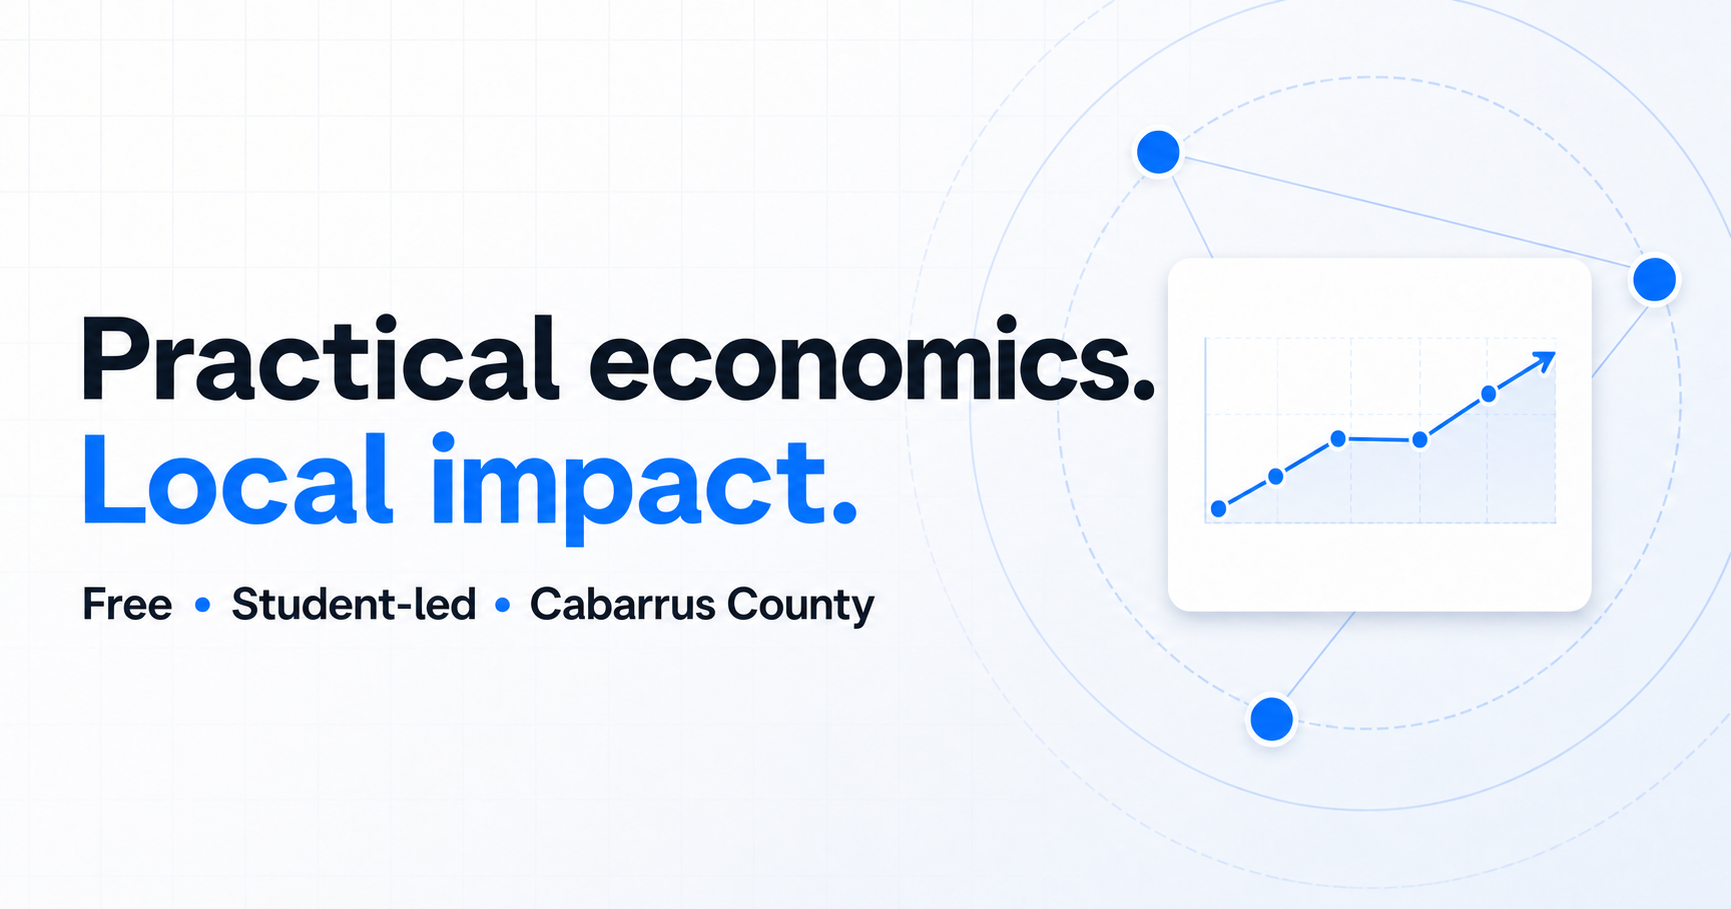
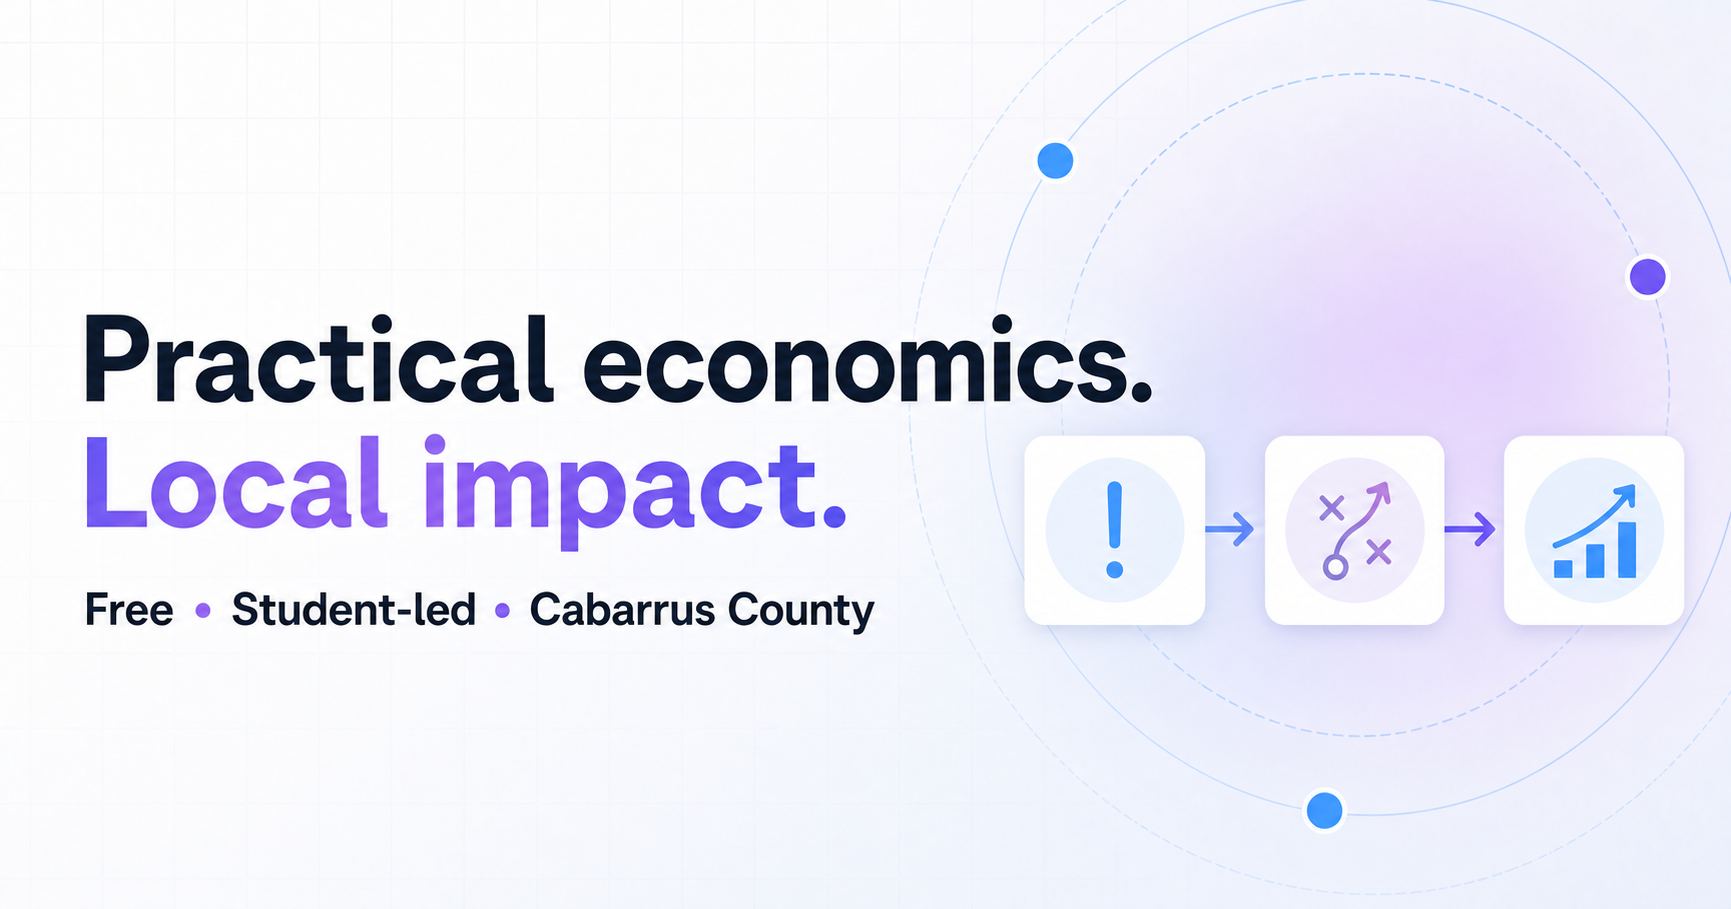
Refine Project Econ interactions

diff --git a/app/globals.css b/app/globals.css
@@ -4,3 +4,85 @@
 @media(max-width:980px){.concept-grid{grid-template-columns:repeat(2,1fr)}.hero-layout{grid-template-columns:1fr}.hero{min-height:auto}.hero-visual{height:430px;max-width:600px;width:100%;margin:auto}.split{gap:50px}.contact-layout{grid-template-columns:1fr}.contact-copy{position:static}.model-grid{grid-template-columns:repeat(2,1fr)}}
 @media(max-width:760px){.container{width:min(100% - 28px,1180px)}.section{padding:78px 0}.nav{height:70px}.nav-links{display:none}.menu-button{display:block}.brand-full{display:none}.brand-mark{display:block}.mobile-menu{top:70px}.hero-layout{padding-block:65px;gap:40px}.hero h1{font-size:clamp(3.2rem,15vw,5.3rem)}.hero-actions{align-items:flex-start;flex-direction:column}.hero-visual{height:350px}.card-main{width:270px;padding:24px}.card-main strong{font-size:25px;margin-bottom:40px}.card-float{right:-8px;top:25px}.split{grid-template-columns:1fr;gap:20px}.free-card{grid-template-columns:1fr;padding:32px}.concept-grid{grid-template-columns:1fr}.concept-card{min-height:auto}.timeline .step{grid-template-columns:60px 1fr}.empty-card{padding:50px 22px}.cta-section{padding-bottom:78px}.cta-card{padding:36px 28px;display:block}.cta-card .button{margin-top:20px}.footer-grid{grid-template-columns:1fr;gap:38px}.footer-bottom{display:block}.page-intro{padding:90px 0 70px}.model-grid{grid-template-columns:1fr}.founder-card{grid-template-columns:1fr;padding:24px}.field-grid{grid-template-columns:1fr}.contact-form{padding:22px}.contact-section{padding-top:60px}}
 @media(prefers-reduced-motion:reduce){*{scroll-behavior:auto!important;animation-duration:.01ms!important;transition-duration:.01ms!important}}
+
+/* Lively visual system */
+:root{--blue:#2563eb;--blue2:#1d4ed8;--sky:#38bdf8;--purple:#8b5cf6;--ink:#1f2937;--wash:#f8faff;--glow:rgba(37,99,235,.22)}
+body{background:linear-gradient(180deg,#fff 0%,#f9fbff 45%,#fff 100%)}
+.site-experience{min-height:100vh}
+.brand-intro{position:fixed;inset:0;z-index:1000;display:grid;place-items:center;overflow:hidden;background:radial-gradient(circle at 50% 48%,#fff 0 28%,#f1f7ff 68%,#eef1ff 100%)}
+.intro-glow{position:absolute;width:min(580px,88vw);aspect-ratio:1;border-radius:50%;background:radial-gradient(circle,rgba(56,189,248,.24),rgba(139,92,246,.11) 48%,transparent 70%);filter:blur(18px)}
+.intro-full-logo,.intro-p-logo{position:absolute;display:grid;place-items:center;will-change:transform,opacity}
+.intro-full-logo{width:min(620px,86vw);height:min(310px,46vw)}
+.intro-p-logo{width:min(260px,48vw);aspect-ratio:1}
+.intro-full-logo img,.intro-p-logo img{width:100%;height:100%;object-fit:contain}
+.gradient-shapes{position:absolute;inset:0;overflow:hidden;pointer-events:none;z-index:0}
+.gradient-shapes span{position:absolute;border-radius:999px;filter:blur(2px);opacity:.5}
+.gradient-shapes span:nth-child(1){width:280px;height:280px;right:6%;top:8%;background:radial-gradient(circle,rgba(56,189,248,.28),transparent 68%)}
+.gradient-shapes span:nth-child(2){width:360px;height:220px;left:-130px;bottom:2%;transform:rotate(-18deg);background:radial-gradient(ellipse,rgba(37,99,235,.18),transparent 70%)}
+.gradient-shapes span:nth-child(3){width:220px;height:220px;right:34%;bottom:-90px;background:radial-gradient(circle,rgba(139,92,246,.2),transparent 68%)}
+.gradient-shapes-purple span:nth-child(1){background:radial-gradient(circle,rgba(139,92,246,.2),transparent 68%)}
+.gradient-shapes-purple span:nth-child(3){background:radial-gradient(circle,rgba(56,189,248,.2),transparent 68%)}
+.button{background:linear-gradient(135deg,var(--blue),#4f7df4);box-shadow:0 12px 30px rgba(37,99,235,.22)}
+.button:hover{background:linear-gradient(135deg,#1d4ed8,var(--purple));box-shadow:0 17px 38px rgba(83,72,220,.3)}
+.button:focus-visible,.journey-nodes button:focus-visible,.expand-card button:focus-visible{outline:3px solid rgba(56,189,248,.5);outline-offset:4px}
+.button-glow{position:relative}
+.button-glow:after{content:"";position:absolute;inset:-6px;border-radius:inherit;background:linear-gradient(90deg,rgba(56,189,248,.45),rgba(139,92,246,.35));filter:blur(12px);z-index:-1;opacity:0;transition:opacity .25s}
+.button-glow:hover:after{opacity:1}
+.nav-wrap{background:rgba(255,255,255,.78);border-bottom-color:rgba(100,142,232,.17);box-shadow:0 8px 30px rgba(49,84,150,.06)}
+.hero{background:linear-gradient(135deg,#fff 8%,#edf6ff 54%,#f5efff 100%);isolation:isolate}
+.hero-gradient{position:absolute;inset:0;background:radial-gradient(circle at 18% 30%,rgba(56,189,248,.15),transparent 28%),radial-gradient(circle at 84% 26%,rgba(139,92,246,.15),transparent 32%);animation:hero-breathe 9s ease-in-out infinite alternate}
+.hero-grid-bg{opacity:.9;mask-image:linear-gradient(90deg,transparent 4%,black 44%,black 90%,transparent)}
+.hero-layout{z-index:3}
+.hero h1{filter:drop-shadow(0 10px 35px rgba(37,99,235,.08))}
+.hero h1 em{background:linear-gradient(90deg,var(--blue),#5a70ee 60%,var(--purple));background-clip:text;color:transparent}
+.hero-fade{position:absolute;z-index:2;left:0;right:0;bottom:0;height:110px;background:linear-gradient(transparent,#fff)}
+.hero-visual{border-color:rgba(122,142,235,.24);background:radial-gradient(circle at 42% 45%,rgba(255,255,255,.92),rgba(110,175,255,.15) 48%,rgba(139,92,246,.09) 68%,transparent 69%);box-shadow:inset 0 0 70px rgba(255,255,255,.65),0 30px 90px rgba(75,99,190,.15)}
+.hero-orbit{border-color:rgba(99,130,232,.16);box-shadow:0 0 80px rgba(56,189,248,.08)}
+.flow-visual{position:absolute;left:50%;top:41%;transform:translate(-50%,-50%);width:86%;display:grid;grid-template-columns:1fr 28px 1fr 28px 1fr;align-items:center;gap:5px;z-index:2}
+.flow-visual>div{display:grid;place-items:center;gap:9px;color:#3e4a60;font:700 11px var(--font-mono);text-transform:uppercase;letter-spacing:.08em;transition:.25s}
+.flow-visual>div:hover{transform:translateY(-5px);color:var(--blue)}
+.flow-visual>div span{width:58px;height:58px;display:grid;place-items:center;border-radius:18px;color:#fff;background:linear-gradient(145deg,var(--blue),var(--purple));box-shadow:0 12px 28px rgba(56,99,225,.25)}
+.flow-visual svg{width:24px}.flow-visual i{height:2px;background:linear-gradient(90deg,var(--sky),var(--purple));position:relative}.flow-visual i:after{content:"";position:absolute;right:-1px;top:-3px;width:8px;height:8px;border-right:2px solid var(--purple);border-top:2px solid var(--purple);transform:rotate(45deg)}
+.card-main{top:75%;width:300px;padding:21px 25px}.card-main strong{font-size:22px;margin:10px 0 14px}.card-float{top:52px;background:rgba(255,255,255,.92);border-color:rgba(115,145,225,.18)}
+.mission-section,.partners-section,.process-section{position:relative;overflow:hidden;isolation:isolate}
+.mission-section{background:linear-gradient(180deg,#fff 0%,#f5f9ff 45%,#f8f5ff 100%)}
+.mission-section>.container,.partners-section>.container,.process-container{position:relative;z-index:2}
+.expand-grid{display:grid;grid-template-columns:repeat(3,1fr);gap:16px;margin-top:54px}
+.expand-card{align-self:start;border:1px solid transparent;border-radius:20px;background:linear-gradient(#fff,#fff) padding-box,linear-gradient(135deg,rgba(56,189,248,.5),rgba(139,92,246,.32)) border-box;box-shadow:0 16px 45px rgba(39,76,145,.09);overflow:hidden;transition:box-shadow .25s}
+.expand-card:hover,.expand-card.is-open{box-shadow:0 22px 55px rgba(67,82,180,.16)}
+.expand-card button{width:100%;border:0;background:transparent;padding:22px;text-align:left;display:grid;grid-template-columns:48px 1fr 22px;gap:14px;align-items:center;color:var(--ink);cursor:pointer}
+.expand-icon{width:48px;height:48px;border-radius:14px;display:grid;place-items:center;color:#fff;background:linear-gradient(145deg,var(--blue),var(--purple))}.expand-icon svg{width:21px}
+.expand-copy{display:grid;gap:5px}.expand-copy strong{font-size:17px}.expand-copy small{color:var(--muted);line-height:1.35}.expand-chevron{width:19px;color:var(--blue);transition:transform .25s}.expand-card.is-open .expand-chevron{transform:rotate(180deg)}
+.expand-detail{overflow:hidden}.expand-detail p{margin:0;padding:0 22px 22px 84px;color:var(--muted);font-size:14px;line-height:1.6}
+.process-section{background:linear-gradient(180deg,#f8f5ff 0%,#eef7ff 52%,#fff 100%)}
+.journey-shell{position:relative;padding:38px 32px 32px;border:1px solid rgba(107,133,212,.22);border-radius:30px;background:rgba(255,255,255,.72);backdrop-filter:blur(14px);box-shadow:0 28px 80px rgba(57,83,156,.12)}
+.journey-track{position:absolute;left:9%;right:9%;top:118px;height:4px;border-radius:99px;background:#dce7fb;overflow:hidden}.journey-track>span{display:block;height:100%;border-radius:inherit;background:linear-gradient(90deg,var(--blue),var(--sky),var(--purple));box-shadow:0 0 18px var(--glow)}
+.journey-nodes{position:relative;display:grid;grid-template-columns:repeat(6,1fr);gap:10px}
+.journey-nodes button{border:0;background:transparent;color:var(--ink);padding:0 4px;display:grid;justify-items:center;gap:9px;cursor:pointer;transform:translateY(22px);transition:transform .28s,color .28s}
+.journey-nodes button:nth-child(even){transform:translateY(-22px)}
+.journey-nodes button:hover{color:var(--blue);transform:translateY(15px)}.journey-nodes button:nth-child(even):hover{transform:translateY(-29px)}
+.journey-number{font:700 10px var(--font-mono);letter-spacing:.1em;color:#77849a}
+.journey-node{width:62px;height:62px;border:5px solid #fff;border-radius:50%;display:grid;place-items:center;background:#e9f1ff;color:var(--blue);box-shadow:0 7px 25px rgba(50,86,160,.14);transition:.28s}.journey-node svg{width:22px}
+.journey-nodes button.active .journey-node{color:#fff;background:linear-gradient(145deg,var(--blue),var(--purple));transform:scale(1.1);box-shadow:0 0 0 8px rgba(56,189,248,.13),0 12px 32px rgba(68,77,193,.26)}
+.journey-label{display:grid;gap:4px;text-align:center}.journey-label strong{font-size:15px}.journey-label small{font-size:11px;line-height:1.35;color:var(--muted);max-width:125px}
+.journey-detail{margin-top:82px;min-height:235px;padding:36px 40px;border-radius:22px;color:#fff;background:linear-gradient(135deg,#15244a,#254bc2 58%,#6651d2);box-shadow:0 20px 55px rgba(37,67,158,.23);position:relative;overflow:hidden}.journey-detail:after{content:"";position:absolute;width:230px;height:230px;border:1px solid rgba(255,255,255,.18);border-radius:50%;right:-70px;top:-100px}.journey-detail>div:first-child{position:relative;z-index:2}.journey-detail span{font:700 11px var(--font-mono);letter-spacing:.12em;text-transform:uppercase;color:#9edfff}.journey-detail h3{font-size:clamp(2rem,3vw,3rem);margin:13px 0 10px}.journey-detail p{font-size:18px;line-height:1.65;color:#e3ebff;max-width:790px}.journey-progress{position:absolute;left:40px;right:40px;bottom:26px;height:3px;background:rgba(255,255,255,.18);border-radius:9px}.journey-progress span{display:block;height:100%;background:linear-gradient(90deg,var(--sky),#d6c8ff);border-radius:inherit;transition:width .35s}
+.support-section{background:linear-gradient(180deg,#fff,#f7faff)}
+.free-card{position:relative;overflow:hidden;background:linear-gradient(135deg,#131c2d 0%,#1e3274 58%,#513ca5 100%);border:1px solid rgba(139,164,255,.24);box-shadow:0 28px 90px rgba(27,47,103,.23)}
+.free-card:after{content:"";position:absolute;width:330px;height:330px;right:-90px;bottom:-190px;border-radius:50%;background:radial-gradient(circle,rgba(56,189,248,.32),transparent 68%)}
+.free-card>div{position:relative;z-index:2}
+.partners-section{background:linear-gradient(180deg,#f7faff,#f7f4ff 55%,#fff)}
+.empty-card{position:relative;z-index:2;border:1px solid transparent;background:linear-gradient(rgba(255,255,255,.86),rgba(255,255,255,.86)) padding-box,linear-gradient(135deg,rgba(56,189,248,.5),rgba(139,92,246,.44)) border-box;box-shadow:0 26px 70px rgba(63,84,169,.12)}
+.empty-card:hover{transform:translateY(-4px);box-shadow:0 32px 80px rgba(63,84,169,.17)}
+.cta-card{background:linear-gradient(135deg,var(--blue),#4a63dd 50%,var(--purple));box-shadow:0 28px 75px rgba(67,77,193,.25);border:1px solid rgba(255,255,255,.2)}
+.page-intro{isolation:isolate;background:linear-gradient(135deg,#f5faff 0%,#edf5ff 55%,#f6f1ff 100%)}
+.page-intro>.container{position:relative;z-index:2}
+.model-card,.founder-card,.contact-form,.project-card{border-color:rgba(119,144,209,.24);box-shadow:0 14px 42px rgba(57,83,156,.07);transition:transform .25s,box-shadow .25s,border-color .25s}
+.model-card:hover,.founder-card:hover,.project-card:hover{transform:translateY(-4px);border-color:rgba(82,119,220,.38);box-shadow:0 22px 55px rgba(57,83,156,.13)}
+.contact-section{background:linear-gradient(180deg,#fff,#f7f9ff)}
+.contact-form{background:rgba(255,255,255,.86);box-shadow:0 25px 75px rgba(57,83,156,.11)}
+.founder-placeholder{background:linear-gradient(145deg,#eff7ff,#f4efff)}
+@keyframes hero-breathe{from{opacity:.76;transform:scale(1)}to{opacity:1;transform:scale(1.035)}}
+
+@media(max-width:980px){.expand-grid{grid-template-columns:1fr}.journey-shell{padding-inline:20px}.journey-detail{margin-top:68px}.journey-label small{display:none}.flow-visual{width:78%}}
+@media(max-width:760px){.intro-p-logo{width:220px}.hero{min-height:auto}.hero-fade{height:64px}.flow-visual{width:94%;grid-template-columns:1fr 20px 1fr 20px 1fr}.flow-visual>div span{width:48px;height:48px;border-radius:15px}.flow-visual>div small{font-size:9px}.card-main{top:78%}.expand-grid{margin-top:34px}.expand-detail p{padding-left:22px}.journey-shell{padding:28px 20px}.journey-track{left:49px;right:auto;top:52px;bottom:268px;width:4px;height:auto;overflow:visible;background:linear-gradient(var(--blue),var(--sky),var(--purple))}.journey-track>span{display:none}.journey-nodes{grid-template-columns:1fr;gap:10px}.journey-nodes button,.journey-nodes button:nth-child(even),.journey-nodes button:hover,.journey-nodes button:nth-child(even):hover{grid-template-columns:34px 62px 1fr;justify-items:start;align-items:center;transform:none;padding:8px 0}.journey-label{text-align:left}.journey-label small{display:block;max-width:none}.journey-number{justify-self:center}.journey-detail{margin-top:30px;min-height:290px;padding:30px 26px}.journey-progress{left:26px;right:26px}.journey-detail p{font-size:16px}.support-section{padding-top:54px}}
+@media(prefers-reduced-motion:reduce){.brand-intro{display:none}.site-experience{opacity:1!important}.hero-gradient{animation:none}.button-glow:after{display:none}}

diff --git a/app/components/InteractiveProcess.tsx b/app/components/InteractiveProcess.tsx
@@ -1,0 +1,49 @@
+"use client";
+
+import { BarChart3, Handshake, Lightbulb, MessageSquareText, Search, Wrench } from "lucide-react";
+import { AnimatePresence, motion } from "framer-motion";
+import { useState } from "react";
+import { GradientShapes } from "./InteractiveCards";
+import { Reveal } from "./SiteShell";
+
+export const processSteps = [
+  { title: "Connect", short: "Start a local conversation", icon: Handshake, detail: "We connect with a local business or organization through a conversation, meeting, email, phone call, or text." },
+  { title: "Understand", short: "Find the real challenge", icon: Search, detail: "We learn about the challenge they are facing or identify a possible issue we notice." },
+  { title: "Choose", short: "Match one useful idea", icon: Lightbulb, detail: "We decide which economic or behavioral economic concept best fits the problem." },
+  { title: "Suggest", short: "Recommend a practical move", icon: MessageSquareText, detail: "We analyze the situation and recommend one practical strategy." },
+  { title: "Implement", short: "Put it into practice", icon: Wrench, detail: "We help the organization apply the strategy during a one-week time frame." },
+  { title: "Review", short: "Learn from what happened", icon: BarChart3, detail: "The organization reviews what happened and can contact us again if they want to continue working with Project Econ." },
+];
+
+export function InteractiveProcess() {
+  const [active, setActive] = useState(0);
+  const selected = processSteps[active];
+
+  return <section id="process" className="section process-section">
+    <GradientShapes variant="purple"/>
+    <div className="container process-container">
+      <Reveal className="section-head"><p className="eyebrow">How it works</p><h2>From a real problem to a tested next step.</h2><p>Choose any point in the journey to see how one focused idea moves forward.</p></Reveal>
+      <div className="journey-shell">
+        <div className="journey-track" aria-hidden="true"><motion.span animate={{ width: `${(active / (processSteps.length - 1)) * 100}%` }} transition={{ duration: .45, ease: [0.22, 1, 0.36, 1] }}/></div>
+        <div className="journey-nodes" role="tablist" aria-label="Project Econ process">
+          {processSteps.map((step, index) => {
+            const Icon = step.icon;
+            return <button key={step.title} type="button" role="tab" aria-selected={active === index} aria-controls="journey-detail" className={active === index ? "active" : ""} onClick={() => setActive(index)}>
+              <span className="journey-number">{String(index + 1).padStart(2, "0")}</span>
+              <span className="journey-node"><Icon/></span>
+              <span className="journey-label"><strong>{step.title}</strong><small>{step.short}</small></span>
+            </button>;
+          })}
+        </div>
+        <div id="journey-detail" className="journey-detail" role="tabpanel" aria-live="polite">
+          <AnimatePresence mode="wait">
+            <motion.div key={selected.title} initial={{ opacity: 0, y: 12 }} animate={{ opacity: 1, y: 0 }} exit={{ opacity: 0, y: -8 }} transition={{ duration: .25 }}>
+              <span>Step {active + 1}</span><h3>{selected.title}</h3><p>{selected.detail}</p>
+            </motion.div>
+          </AnimatePresence>
+          <div className="journey-progress" aria-hidden="true"><span style={{ width: `${((active + 1) / processSteps.length) * 100}%` }}/></div>
+        </div>
+      </div>
+    </div>
+  </section>;
+}

diff --git a/app/components/BrandIntro.tsx b/app/components/BrandIntro.tsx
@@ -1,0 +1,45 @@
+"use client";
+
+import Image from "next/image";
+import { AnimatePresence, motion } from "framer-motion";
+import { useEffect, useState } from "react";
+
+const INTRO_KEY = "project-econ-intro-seen";
+
+export function BrandIntro({ children }: { children: React.ReactNode }) {
+  const [showIntro, setShowIntro] = useState(true);
+
+  useEffect(() => {
+    const reducedMotion = window.matchMedia("(prefers-reduced-motion: reduce)").matches;
+    const alreadySeen = window.sessionStorage.getItem(INTRO_KEY) === "true";
+
+    if (reducedMotion || alreadySeen) {
+      window.requestAnimationFrame(() => setShowIntro(false));
+      return;
+    }
+
+    const timer = window.setTimeout(() => {
+      window.sessionStorage.setItem(INTRO_KEY, "true");
+      setShowIntro(false);
+    }, 2100);
+
+    return () => window.clearTimeout(timer);
+  }, []);
+
+  return <>
+    <motion.div className="site-experience" initial={false} animate={{ opacity: showIntro ? 0 : 1 }} transition={{ duration: .45 }} aria-hidden={showIntro}>
+      {children}
+    </motion.div>
+    <AnimatePresence>
+      {showIntro && <motion.div className="brand-intro" aria-hidden="true" initial={{ opacity: 1 }} exit={{ opacity: 0 }} transition={{ duration: .35 }}>
+        <motion.div className="intro-glow" animate={{ scale: [1, 1.12, 1], opacity: [.45, .8, .35] }} transition={{ duration: 1.8, ease: "easeInOut" }}/>
+        <motion.div className="intro-full-logo" initial={{ opacity: 0, scale: .94 }} animate={{ opacity: [0, 1, 1, 0], scale: [.94, 1, 1, .96], x: [0, 0, 0, 18] }} transition={{ duration: 1.05, times: [0, .22, .64, 1], ease: [0.22, 1, 0.36, 1] }}>
+          <Image src="/project-econ.png" alt="" width={430} height={215} priority unoptimized/>
+        </motion.div>
+        <motion.div className="intro-p-logo" initial={{ opacity: 0, scale: .92, x: 0, y: 0 }} animate={{ opacity: [0, 1, 1], scale: [.92, 1, .19], x: [0, 0, "calc(-50vw + 43px)"], y: [0, 0, "calc(-50vh + 39px)"] }} transition={{ duration: 1.35, delay: .62, times: [0, .24, 1], ease: [0.22, 1, 0.36, 1] }}>
+          <Image src="/project-econ-p.png" alt="" width={250} height={250} priority unoptimized/>
+        </motion.div>
+      </motion.div>}
+    </AnimatePresence>
+  </>;
+}

diff --git a/app/components/HomeSections.tsx b/app/components/HomeSections.tsx
@@ -1,29 +1,18 @@
 "use client";
+
 import Link from "next/link";
-import { ArrowDown, ArrowRight, Building2, Check, CircleDollarSign, Sparkles } from "lucide-react";
+import { ArrowDown, ArrowRight, Building2, Check, CircleDollarSign, Compass, Lightbulb, MapPin, Search, Sparkles, TrendingUp } from "lucide-react";
 import { motion } from "framer-motion";
-import { concepts } from "../data/concepts";
 import { CallToAction, Reveal } from "./SiteShell";
+import { ExpandableInfoCard, GradientShapes } from "./InteractiveCards";
+import { InteractiveProcess } from "./InteractiveProcess";
 
-const steps = [
-  ["Connect", "Every week, we try to connect with one local business or organization."],
-  ["Understand the problem", "We listen through a meeting, email, call, or text—and may point out issues we notice."],
-  ["Choose one concept", "We pick the economic or behavioral economic idea that best fits the situation."],
-  ["Suggest a strategy", "We turn that concept into a practical, focused suggestion."],
-  ["Help implement it", "We help apply the strategy during a one-week time frame."],
-  ["Review the results", "The organization reviews what happened and can contact us about next steps."],
-];
+export function HeroSection(){return <section className="hero"><div className="hero-gradient"/><div className="hero-grid-bg"/><GradientShapes variant="blue"/><motion.div className="hero-orbit orbit-a" animate={{x:[0,16,0],y:[0,-10,0]}} transition={{duration:9,repeat:Infinity,ease:"easeInOut"}}/><motion.div className="hero-orbit orbit-b" animate={{x:[0,-18,0],y:[0,12,0]}} transition={{duration:11,repeat:Infinity,ease:"easeInOut"}}/><div className="container hero-layout"><motion.div initial={{opacity:0,y:25}} animate={{opacity:1,y:0}} transition={{duration:.7}}><p className="eyebrow"><span/>Free • Student-led • Cabarrus County</p><h1>Practical economics.<br/><em>Local impact.</em></h1><p className="lead">Project Econ helps small businesses and organizations solve real problems by applying one focused economic concept at a time.</p><div className="hero-actions"><Link className="button button-glow" href="/contact">Work With Us <ArrowRight size={18}/></Link><a className="text-link" href="#process">See How It Works <ArrowDown size={17}/></a></div></motion.div><motion.div className="hero-visual" initial={{opacity:0,scale:.94}} animate={{opacity:1,scale:1}} transition={{duration:.8,delay:.15}}><motion.div className="visual-card card-float" animate={{y:[0,-8,0]}} transition={{duration:4,repeat:Infinity}}><Sparkles/><span>Economics made useful</span></motion.div><div className="flow-visual"><div><span><Search/></span><small>Problem</small></div><i/><div><span><Lightbulb/></span><small>Strategy</small></div><i/><div><span><TrendingUp/></span><small>Results</small></div></div><div className="visual-card card-main"><span>ONE WEEK / ONE IDEA</span><strong>A small, focused experiment.</strong><p>Listen → Apply → Learn</p></div><div className="node n1"/><div className="node n2"/><div className="node n3"/></motion.div></div><div className="hero-fade"/></section>}
 
-export function HeroSection(){return <section className="hero"><div className="hero-grid-bg"/><motion.div className="hero-orbit orbit-a" animate={{rotate:360}} transition={{duration:34,repeat:Infinity,ease:"linear"}}/><motion.div className="hero-orbit orbit-b" animate={{rotate:-360}} transition={{duration:46,repeat:Infinity,ease:"linear"}}/><div className="container hero-layout"><motion.div initial={{opacity:0,y:25}} animate={{opacity:1,y:0}} transition={{duration:.7}}><p className="eyebrow"><span/>Free • Student-led • Cabarrus County</p><h1>Practical economics.<br/><em>Local impact.</em></h1><p className="lead">Project Econ helps small businesses and organizations solve real problems by applying one focused economic concept at a time.</p><div className="hero-actions"><Link className="button" href="/contact">Work With Us <ArrowRight size={18}/></Link><a className="text-link" href="#process">See How It Works <ArrowDown size={17}/></a></div></motion.div><motion.div className="hero-visual" initial={{opacity:0,scale:.94}} animate={{opacity:1,scale:1}} transition={{duration:.8,delay:.15}}><div className="visual-card card-main"><span>ONE WEEK / ONE IDEA</span><strong>A small, focused experiment.</strong><p>Listen → Apply → Learn</p></div><motion.div className="visual-card card-float" animate={{y:[0,-10,0]}} transition={{duration:4,repeat:Infinity}}><Sparkles/><span>Economics made useful</span></motion.div><div className="node n1"/><div className="node n2"/><div className="node n3"/></motion.div></div></section>}
+export function MissionSection(){return <section className="section mission-section"><GradientShapes variant="purple"/><div className="container"><div className="split"><Reveal><p className="eyebrow">Our Mission</p><h2>Bring useful ideas out of the textbook.</h2></Reveal><Reveal><p className="large-copy">Our mission is to help small businesses and organizations in Cabarrus County by taking economic concepts and applying them to real problems.</p><p>We want to make economics more useful, practical, and accessible for organizations in our community.</p><div className="mini-points"><span><Check/> Local first</span><span><Check/> Practical by design</span><span><Check/> Simple and focused</span></div></Reveal></div><Reveal className="expand-grid"><ExpandableInfoCard icon={MapPin} title="Local first" summary="Built around Cabarrus County" detail="We focus on nearby businesses and organizations so every conversation stays grounded in the community we know."/><ExpandableInfoCard icon={Compass} title="Practical by design" summary="One useful next step" detail="We turn a broad challenge into one focused strategy that an organization can realistically try."/><ExpandableInfoCard icon={Lightbulb} title="Simple and focused" summary="One concept at a time" detail="A narrow approach makes it easier to implement the idea, observe what happens, and learn from the result."/></Reveal></div></section>}
 
-export function MissionSection(){return <section className="section"><div className="container split"><Reveal><p className="eyebrow">Our Mission</p><h2>Bring useful ideas out of the textbook.</h2></Reveal><Reveal><p className="large-copy">Our mission is to help small businesses and organizations in Cabarrus County by taking economic concepts and applying them to real problems.</p><p>We want to make economics more useful, practical, and accessible for organizations in our community.</p><div className="mini-points"><span><Check/> Local first</span><span><Check/> Practical by design</span><span><Check/> Simple and focused</span></div></Reveal></div></section>}
+export function FreeSupport(){return <section className="section support-section"><div className="container"><Reveal className="free-card"><div className="free-icon"><CircleDollarSign/></div><div><p className="eyebrow">No cost</p><h2>Everything we do is completely free.</h2><p>Project Econ does not charge businesses or organizations. Our goal is to gain experience applying economics while helping our local community.</p><small>Project Econ offers educational recommendations. Results are not guaranteed.</small></div></Reveal></div></section>}
 
-export function ProcessTimeline(){return <section id="process" className="section process-section"><div className="container"><Reveal className="section-head"><p className="eyebrow">How it works</p><h2>One problem. One concept. One week.</h2><p>A clear, six-step process designed to keep the work practical.</p></Reveal><div className="timeline">{steps.map((s,i)=><Reveal className="step" key={s[0]}><div className="step-num">{String(i+1).padStart(2,"0")}</div><div><h3>{s[0]}</h3><p>{s[1]}</p></div></Reveal>)}</div></div></section>}
+export function CompaniesSection(){return <section className="section partners-section"><GradientShapes variant="blue"/><div className="container"><Reveal className="empty-card"><div className="empty-icon"><Building2/></div><p className="eyebrow">Early partners wanted</p><h2>Businesses and Organizations We Have Worked With</h2><p>We are currently looking for our first local businesses and organizations to work with. Completed projects will be added here soon.</p><Link className="button button-glow" href="/contact">Become an Early Partner <ArrowRight size={18}/></Link></Reveal></div></section>}
 
-export function FreeSupport(){return <section className="section"><div className="container"><Reveal className="free-card"><div className="free-icon"><CircleDollarSign/></div><div><p className="eyebrow">No cost</p><h2>Everything we do is completely free.</h2><p>Project Econ does not charge businesses or organizations. Our goal is to gain experience applying economics while helping our local community.</p><small>Project Econ offers educational recommendations. Results are not guaranteed.</small></div></Reveal></div></section>}
-
-export function ConceptsSection(){return <section className="section concepts-section"><div className="container"><Reveal className="section-head"><p className="eyebrow">Our toolkit</p><h2>Ideas we may put to work.</h2><p>The right concept depends entirely on the problem an organization is facing.</p></Reveal><div className="concept-grid">{concepts.map((c,i)=><Reveal className="concept-card" key={c.name}><span>{String(i+1).padStart(2,"0")}</span><h3>{c.name}</h3><p>{c.definition}</p></Reveal>)}</div></div></section>}
-
-export function CompaniesSection(){return <section className="section"><div className="container"><Reveal className="empty-card"><div className="empty-icon"><Building2/></div><p className="eyebrow">Early partners wanted</p><h2>Businesses and Organizations We Have Worked With</h2><p>We are currently looking for our first local businesses and organizations to work with. Completed projects will be added here soon.</p><Link className="button" href="/contact">Become an Early Partner <ArrowRight size={18}/></Link></Reveal></div></section>}
-
-export function HomePage(){return <><HeroSection/><MissionSection/><ProcessTimeline/><FreeSupport/><ConceptsSection/><CompaniesSection/><CallToAction/></>}
+export function HomePage(){return <><HeroSection/><MissionSection/><InteractiveProcess/><FreeSupport/><CompaniesSection/><CallToAction/></>}

diff --git a/app/components/InteractiveCards.tsx b/app/components/InteractiveCards.tsx
@@ -1,0 +1,25 @@
+"use client";
+
+import type { LucideIcon } from "lucide-react";
+import { ChevronDown } from "lucide-react";
+import { AnimatePresence, motion } from "framer-motion";
+import { useId, useState } from "react";
+
+export function ExpandableInfoCard({ icon: Icon, title, summary, detail }: { icon: LucideIcon; title: string; summary: string; detail: string }) {
+  const [open, setOpen] = useState(false);
+  const regionId = useId();
+  return <motion.article className={`expand-card ${open ? "is-open" : ""}`} whileHover={{ y: -5 }} transition={{ duration: .22 }}>
+    <button type="button" aria-expanded={open} aria-controls={regionId} onClick={() => setOpen(value => !value)}>
+      <span className="expand-icon"><Icon/></span>
+      <span className="expand-copy"><strong>{title}</strong><small>{summary}</small></span>
+      <ChevronDown className="expand-chevron"/>
+    </button>
+    <AnimatePresence initial={false}>
+      {open && <motion.div id={regionId} className="expand-detail" initial={{ height: 0, opacity: 0 }} animate={{ height: "auto", opacity: 1 }} exit={{ height: 0, opacity: 0 }} transition={{ duration: .28 }}><p>{detail}</p></motion.div>}
+    </AnimatePresence>
+  </motion.article>;
+}
+
+export function GradientShapes({ variant = "blue" }: { variant?: "blue" | "purple" }) {
+  return <div className={`gradient-shapes gradient-shapes-${variant}`} aria-hidden="true"><span/><span/><span/></div>;
+}

diff --git a/app/components/SiteShell.tsx b/app/components/SiteShell.tsx
@@ -6,6 +6,8 @@ import { usePathname } from "next/navigation";
 import { AnimatePresence, motion } from "framer-motion";
 import { ArrowUpRight, Menu, X } from "lucide-react";
 import { useState } from "react";
+import { BrandIntro } from "./BrandIntro";
+import { GradientShapes } from "./InteractiveCards";
 
 const links = [{ href: "/", label: "Home" }, { href: "/our-work", label: "Our Work" }, { href: "/about", label: "About" }, { href: "/contact", label: "Contact" }];
 
@@ -21,10 +23,10 @@ export function Navbar() {
 
 export function Footer() { return <footer><div className="container footer-grid"><div><Image src="/project-econ.png" alt="Project Econ" width={230} height={115} unoptimized/><p>A student-led initiative applying economics to real local problems—one focused concept at a time.</p></div><div><h3>Explore</h3>{links.map(l => <Link key={l.href} href={l.href}>{l.label}</Link>)}</div><div><h3>Local to</h3><p>Cabarrus County,<br/>North Carolina</p><a href="mailto:[email redacted]">[email redacted]</a><small>Placeholder email</small></div></div><div className="container footer-bottom"><span>© {new Date().getFullYear()} Project Econ</span><p>Project Econ provides free, student-led, educational recommendations. Results are not guaranteed, and each business or organization is responsible for its own decisions.</p></div></footer> }
 
-export function SiteShell({ children }: { children: React.ReactNode }) { return <><Navbar/><main>{children}</main><Footer/></>; }
+export function SiteShell({ children }: { children: React.ReactNode }) { return <BrandIntro><Navbar/><main>{children}</main><Footer/></BrandIntro>; }
 
 export function Reveal({ children, className = "" }: { children: React.ReactNode; className?: string }) { return <motion.div className={className} initial={{opacity:0,y:24}} whileInView={{opacity:1,y:0}} viewport={{once:true, margin:"-70px"}} transition={{duration:.55,ease:[.22,1,.36,1]}}>{children}</motion.div>; }
 
-export function PageIntro({ eyebrow, title, text }: { eyebrow:string; title:string; text:string }) { return <section className="page-intro"><div className="orb orb-one"/><div className="container"><Reveal><p className="eyebrow">{eyebrow}</p><h1>{title}</h1><p className="lead">{text}</p></Reveal></div></section>; }
+export function PageIntro({ eyebrow, title, text }: { eyebrow:string; title:string; text:string }) { return <section className="page-intro"><GradientShapes variant="blue"/><div className="orb orb-one"/><div className="container"><Reveal><p className="eyebrow">{eyebrow}</p><h1>{title}</h1><p className="lead">{text}</p></Reveal></div></section>; }
 
 export function CallToAction({ title="Have a real problem we can explore together?", text="Tell us what your business or organization is facing. We’ll listen first, then see whether one focused economic concept can help." }: {title?:string;text?:string}) { return <section className="cta-section"><div className="container"><Reveal className="cta-card"><div><p className="eyebrow light">Start a conversation</p><h2>{title}</h2><p>{text}</p></div><Link className="button button-white" href="/contact">Work With Us <ArrowUpRight size={18}/></Link></Reveal></div></section> }